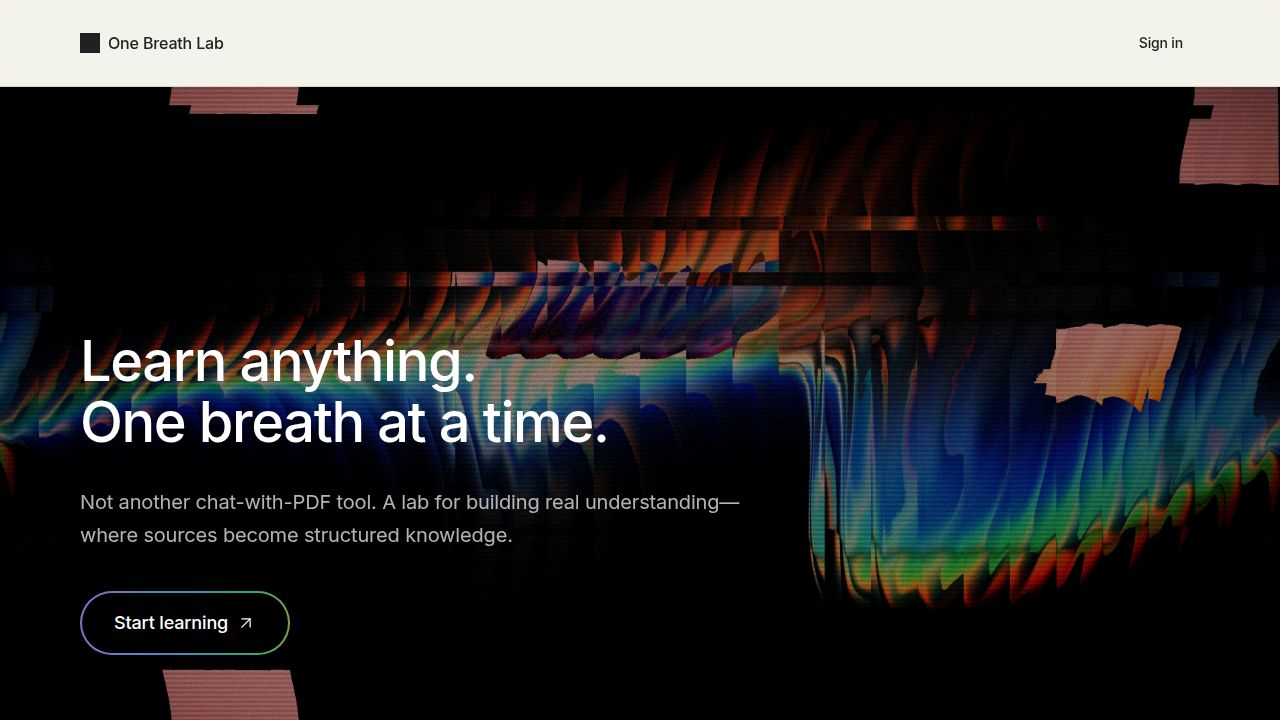
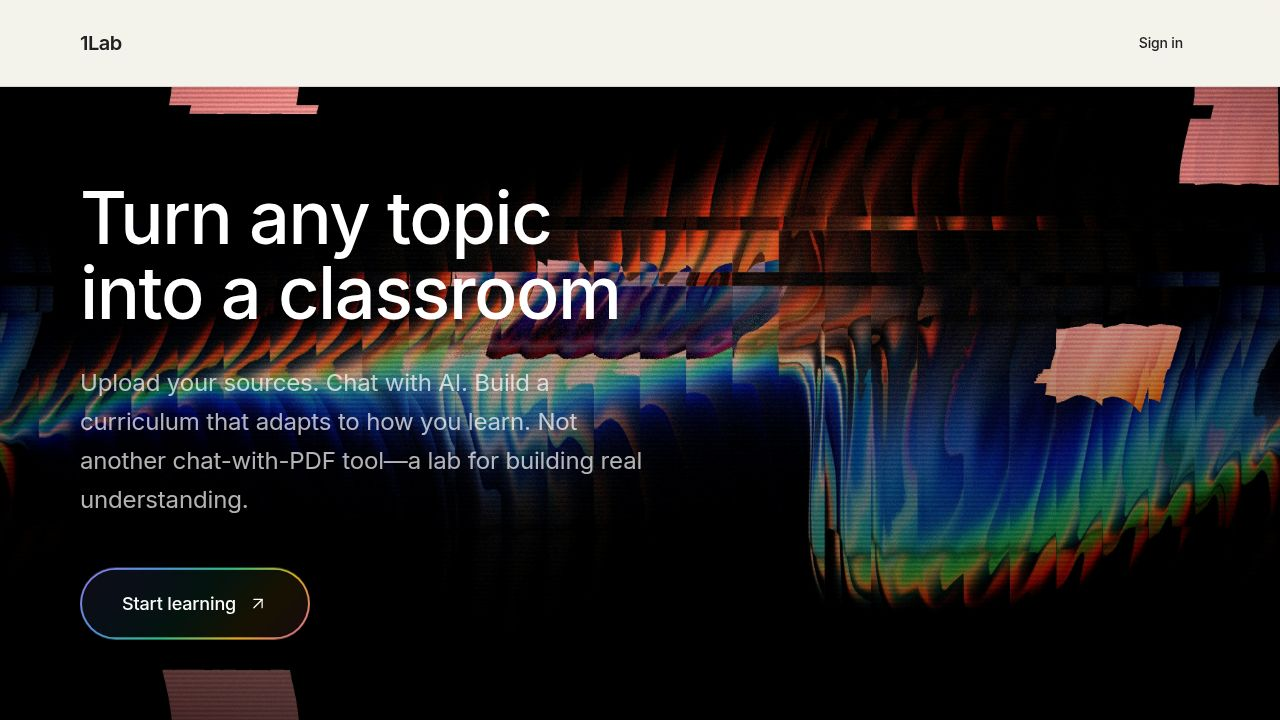
Update branding and landing page copy to 1Lab
Updates website title, meta tags, header, hero section copy, and footer to reflect the new "1Lab" branding.

Replit-Commit-Author: Agent
Replit-Commit-Session-Id: f9817ab4-e692-4cb8-8062-be3f6c044ae9
Replit-Commit-Checkpoint-Type: full_checkpoint
Replit-Commit-Event-Id: 73869c8c-c17e-40f7-b64e-b078e109bc9a
Replit-Commit-Screenshot-Url: https://storage.googleapis.com/screenshot-production-us-central1/f2e585a9-7236-45d7-b317-4d2f7a0a74fe/f9817ab4-e692-4cb8-8062-be3f6c044ae9/JBRyuui
Replit-Helium-Checkpoint-Created: true

diff --git a/client/src/pages/Landing.tsx b/client/src/pages/Landing.tsx
@@ -15,9 +15,8 @@ export default function Landing() {
       <NoiseOverlay opacity={0.04} />
       
       <header className="relative z-10 flex items-center justify-between px-6 md:px-12 lg:px-20 py-6 border-b border-border bg-background/80 backdrop-blur-sm">
-        <div className="flex items-center gap-2">
-          <div className="w-5 h-5 bg-foreground" />
-          <span className="font-medium">One Breath Lab</span>
+        <div className="flex items-center gap-1.5">
+          <span className="text-xl font-bold tracking-tight">1Lab</span>
         </div>
 
         <Button 
@@ -53,8 +52,8 @@ export default function Landing() {
               animate={{ opacity: 1, y: 0 }}
               transition={{ duration: 0.6, delay: 0.1 }}
             >
-              Learn anything.<br />
-              One breath at a time.
+              Turn any topic<br />
+              into a classroom
             </motion.h1>
 
             <motion.p 
@@ -63,7 +62,7 @@ export default function Landing() {
               animate={{ opacity: 1, y: 0 }}
               transition={{ duration: 0.6, delay: 0.2 }}
             >
-              Not another chat-with-PDF tool. A lab for building real understanding—where sources become structured knowledge.
+              Upload your sources. Chat with AI. Build a curriculum that adapts to how you learn. Not another chat-with-PDF tool—a lab for building real understanding.
             </motion.p>
 
             <motion.button
@@ -224,12 +223,11 @@ export default function Landing() {
 
       <footer className="relative z-10 border-t border-border bg-foreground text-background overflow-hidden">
         <div className="px-6 md:px-12 lg:px-20 pt-16 pb-8">
-          <div className="flex items-center gap-2 mb-3">
-            <div className="w-4 h-4 bg-background" />
-            <span className="text-sm font-medium">One Breath Lab</span>
+          <div className="mb-3">
+            <span className="text-xl font-bold tracking-tight">1Lab</span>
           </div>
           <p className="text-sm text-background/50 max-w-sm">
-            Building understanding, one breath at a time.
+            Turn any topic into a classroom.
           </p>
         </div>
         
@@ -239,15 +237,15 @@ export default function Landing() {
             whileInView={{ opacity: 1, x: 0 }}
             viewport={{ once: true }}
             transition={{ duration: 0.8, ease: "easeOut" }}
-            className="text-[18vw] md:text-[16vw] lg:text-[14vw] font-bold leading-[0.85] tracking-[-0.04em] text-white/[0.06] select-none whitespace-nowrap"
+            className="text-[28vw] md:text-[24vw] lg:text-[22vw] font-bold leading-[0.85] tracking-[-0.04em] text-white/[0.06] select-none whitespace-nowrap"
             style={{ fontFamily: "'Space Grotesk', sans-serif" }}
           >
-            one breath lab
+            1Lab
           </motion.div>
         </div>
         
         <div className="border-t border-background/10 py-4 px-6 md:px-12 lg:px-20">
-          <p className="text-xs text-background/40">&copy; {new Date().getFullYear()} One Breath Lab. All rights reserved.</p>
+          <p className="text-xs text-background/40">&copy; {new Date().getFullYear()} 1Lab. All rights reserved.</p>
         </div>
       </footer>
     </div>

diff --git a/client/index.html b/client/index.html
@@ -4,15 +4,15 @@
     <meta charset="UTF-8" />
     <meta name="viewport" content="width=device-width, initial-scale=1.0, maximum-scale=1" />
 
-    <title>One Breath Lab</title>
-    <meta property="og:title" content="One Breath Lab" />
-    <meta property="og:description" content="Generate interactive scientific simulations from any concept in seconds." />
+    <title>1Lab</title>
+    <meta property="og:title" content="1Lab - Turn any topic into a classroom" />
+    <meta property="og:description" content="Upload your sources. Chat with AI. Build a curriculum that adapts to how you learn." />
     <meta property="og:type" content="website" />
     <meta property="og:image" content="/og-image.png" />
     <meta name="twitter:card" content="summary_large_image" />
     <meta name="twitter:site" content="@replit" />
-    <meta name="twitter:title" content="One Breath Lab" />
-    <meta name="twitter:description" content="Generate interactive scientific simulations from any concept in seconds." />
+    <meta name="twitter:title" content="1Lab - Turn any topic into a classroom" />
+    <meta name="twitter:description" content="Upload your sources. Chat with AI. Build a curriculum that adapts to how you learn." />
     <meta name="twitter:image" content="/og-image.png" />
 
     <link rel="icon" type="image/png" href="/favicon.png" />
